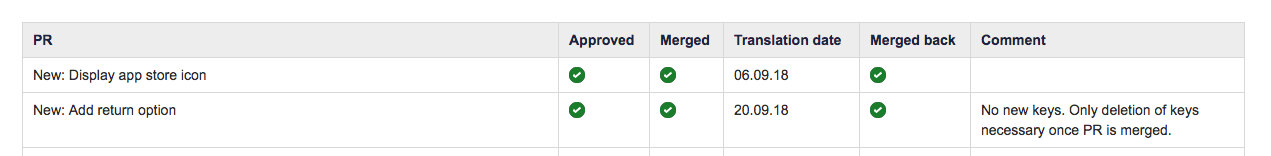
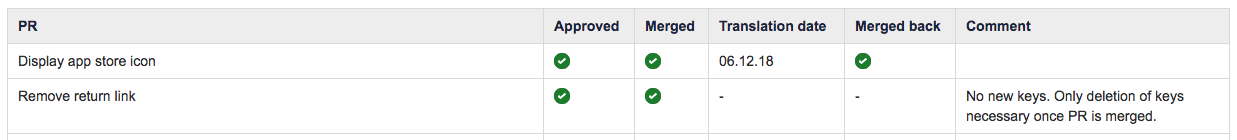
Improve article

diff --git a/_posts/2018/2019-12-24-localization-tool.md b/_posts/2018/2019-12-24-localization-tool.md
@@ -1,6 +1,6 @@
 ---
 layout: post
-title: Localization tool 
+title: Localization tool in action - challenges and chances 
 date: 2018-12-24
 header_image: public/localization-tool-challenges.jpeg
 header_overlay: true
@@ -10,28 +10,27 @@ authors: ["Christina"]
 about_authors: ["cgebken"]
 ---
 
-Here it is.
-The third and final part of our software localization series.
-In the last posts, you've accompanied us on our journey towards an improved localization process with the help of a localization tool.
-Now, nearly one year has passed and it's time for a recap.
-Have we been able to tackle all our challenges?
-Are we satisfied with our current workflow?
-What learnings did we have?
+In the last two posts of this series, you've accompanied us on our journey towards an improved localization process with the help of the localization tool [PhraseApp](https://phraseapp.com/){:target="_blank"}.
+We've already talked about our [former localization flow](/blog/language-and-localization/why-the-heck-would-we-need-a-software-localization-tool/), and our learnings and improvements when [integrating PhraseApp](https://developer.epages.com/blog/language-and-localization/rocking-the-stage-with-a-software-localization-tool/).
+But now it's time to talk about challenges that we faced during this restructuring time and in some regards still do.
 
-Let's start with our challenges.
-When we introduced PhraseApp as our localization tool, we could enjoy many advantages: 
+## Find workarounds
 
-- Speed up our translation process from 3 weeks to a maximum of 1 week
-- Provide really great context for all our translation keys with the In-Context Editor
-- Stick to a fix set of terms provided via the Glossary and the Translation Memory
-- Cooperate in an easier and developer-friendly way with our developers - Thanks to the Git Synchronization
+PhraseApp offers great features such as the Git-Synchronization, or the In-Context Editor.
+But especially the Editor is not the one and only solution for us.
+We'd love to have a link next to each key that can be clicked and leads directly to the respective key in the software UI.
+This is possible for many keys, but not for the ones that aren't directly visible on the page.
+This means, that they open in an overlay, or are only displayed once you select a button or a checkbox.
+These keys are editable in the Editor, but they cannot be found via the link next to the key.
 
-But implementing a new tool of course also leads to some challenges.
+As our UI writers and our translation agency have limited time, they cannot search for each of this "hidden" keys in the UI.
+That's why we still need to make screenshots for these keys which can be found next to the key instead of the link.
+Depending on the complexity of your UI, this can be quite some manual effort.
 
-## Git Workflow
+## Adapt workflows
 
-Implementing a new localization tool in a software company like ePages, is of course also related to the cooperation with the developers.
-The Git Synchronisation already helped a lot. 
+Implementing a new localization tool in a software company like [ePages](https://epages.com/en/){:target="_blank"}, is of course also related to the cooperation with the developers.
+The Git Synchronization already helped a lot. 
 But nevertheless, coming up with a fitting Git workflow for the new localization process was one of our biggest challenges.
 (To all the non-developers that have never worked with Git or GitHub before, just forward this section to your favorite developer 😉.
 They will know what to do and it will make your life easier!)
@@ -41,20 +40,21 @@ Meaning that we had a `master` and a `develop` branch.
 This separation had a downside that we haven't been aware of:
 
 Everything that has been merged into `develop` was seen as "ready to be merged into `master`".
-But the Git Synchronization was connected to the `develop` branch.
-This connection was necessary as the translations need to be done BEFORE the related keys can be seen in production, thus, before they are merged into `master`.
+But the Git Synchronization was also connected to the `develop` branch.
+This connection was necessary as the translations need to be done BEFORE the related keys can be seen by our merchants, thus, before they are merged into `master`.
 So, PRs with keys that need to be translated had to be merged into `develop` in order to be displayed in our localization tool.
 But being merged into `develop`, they have been part of the heterogeneous mass of code changes that could be merged into `master` at any time.
 This ended up in untranslated keys seen as "ready to be merged into `master`" and a huge communication and timing issue.
 
 Our solution was a new branch called `l10n`.
-PRs with code changes that somehow affect localization, e.g. PRs with newly added keys, are against this `l10n` branch.
-This way, no untranslated key will go live and code changes that are not related to localization are not blocked.
-At the same time, the keys for needed UI texts were displayed in our localization tool without being visible to our merchants.
-The updated `l10n` branch is automatically merged into `master` once there is a new PR (with new translations) from PhraseApp.
-Afterwards, the `master` branch is merged back into `l10n` to keep the `l10n` also always up-to-date.
+PRs with code changes that somehow affect localization, e.g. PRs with newly added keys, now use this branch.
+This way, no untranslated key will be visiible to our merchants and code changes that are not related to localization are not blocked.
+At the same time, the keys for needed UI texts were displayed in our localization tool and can be edited.
 
-### Timing
+The updated `l10n` branch is automatically merged into `master` once there is a new PR (with new translations) from PhraseApp.
+Afterwards, the `master` branch is merged back into `l10n` to keep the `l10n` always up-to-date.
+
+### Improve timing
 
 So, now we had this great new branch.
 But this didn't solve all our challenges.
@@ -62,14 +62,15 @@ We still needed to ensure that PRs are merged at the right time.
 Meaning that a new PR could only be merged into the `l10n` branch, if 
 
 - no UI text session is currently going on or is about to start.
-- no PR from our localization tool with new translation tools is waiting to be merged into `l10n` and thus into `master`.
+- no PR from PhraseApp with new translations is waiting to be merged into `l10n`.
 
-Otherwise, it could occur that our UI writers just finished a session and provided translations, but we can't merge them back into `l10n` and then directly to `master` because the `l10n` branch contains untranslated keys.
+Otherwise, it could occur that our UI writers just finished a session and provided translations, but we can't merge them back into `l10n` and afterwards directly to `master` because the `l10n` branch contains untranslated keys.
+
 That's why we made it obligatory that a PR needs an approved review from our Localization Manager before it can be merged into `l10n`.
 As long as a PR is approved, it can be merged.
 But if e.g. a UI text session is about to start, the approval will be withdrawed until the translations are merged back.
 
-### PR overview
+### Keep an overview
 
 The need to approve PRs brought up a new challenge as we needed to keep an overview of the PRs against l10n.
 How many PRs are currently open?
@@ -78,7 +79,7 @@ And how does this fit to the UI text session our UI writers have?
 
 We needed to come up with a plan.
 Literally.
-In our intranet, we've come up with an overview of approved PRs:
+In our intranet, we've created an overview of approved PRs:
 
 {% image_custom image="/assets/img/pages/blog/images/overview-of-approved-prs.png" width="100" lightbox %}
 
@@ -86,10 +87,24 @@ Here's a little explanation for the column titles:
 
 - **PR**: A short but meaningful name for the PR so that you know what this PR is about and which keys it includes.
 - **Approved**: Add a tick once you have approved the PR.
-- **Merged**: Add a tick when the PR was merged by the delopment team.
+- **Merged**: Add a tick when the PR was merged into the `l10n` branch by the delopment team.
 - **Translation date**: The date the keys will be processed by the UI writers. 
-- **Merged back**: Add a tick once the PR of the localization tool with new translations was merged back by the development team.
+- **Merged back**: Add a tick once the PR of PhraseApp with new translations was merged back into the `l10n` branch by the development team.
 - **Comment**: Add comments if needed, e.g. a reminder that you need to delete keys in PhraseApp once the PR is merged.
 
-With the help of this overview, it's much easier to keep an overview of localization related PRs and their approvals.
+With the help of this list, it's much easier to keep an overview of localization-related PRs and their approvals.
 
+## Never stop improving!
+
+It's now almost one year ago that we introduced PhraseApp.
+That's why we lately had a little localization retro with our UI writers, developers, the responsible Product owner, and our Localization Manager.
+And...we are happy!
+Even though, there are still some challenges that pop up every now and then, we are able to cope with them.
+And we can enjoy so many advantages that we wouldn't have dreamt of two years ago.
+Putting our localization process under the microscope, and being willing and brave enough to make big changes totally paid off for us.
+Give it a try!
+
+## Related posts
+
+* [Why the heck would we need a software localization tool?](/blog/language-and-localization/why-the-heck-would-we-need-a-software-localization-tool/)
+* [Rocking the stage with a software localization tool](/blog/language-and-localization/rocking-the-stage-with-a-software-localization-tool/)
